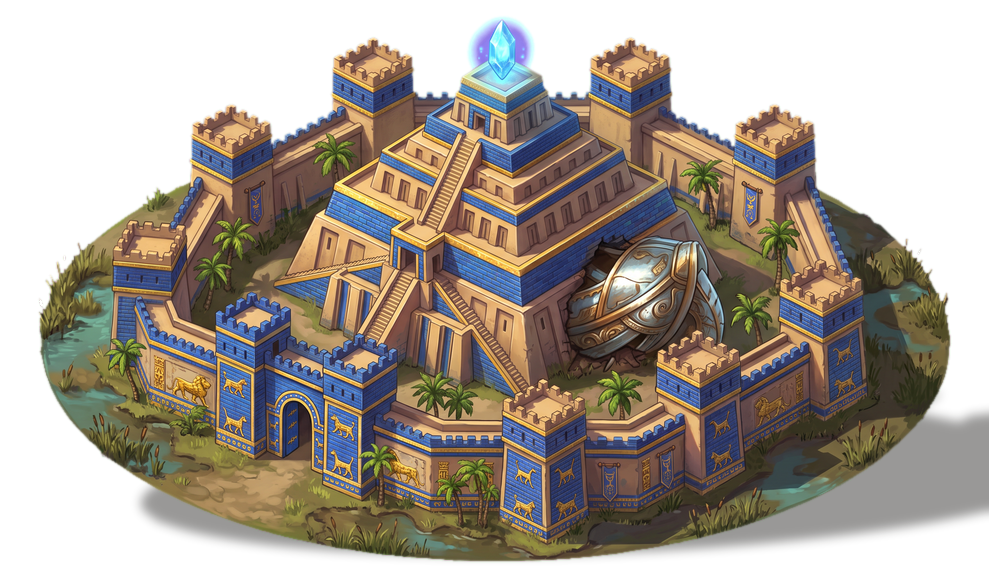
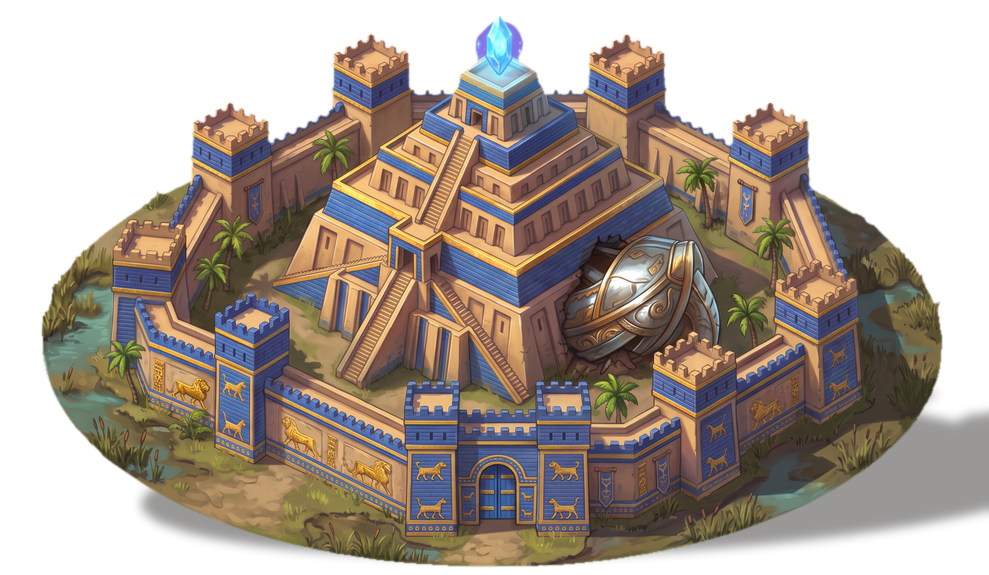
Eridu map towns: the gate at the front centre, where heroes stand
All three Eridu map towns had the gate painted about a tile left of the gate
tile, so a hero arriving stood beside it. Repainted as edits with the gate at
the front centre (same canvas, anchor and shadow). New screenshot option
--at_gate[=castle|village] puts the first hero in its home town's gate.

Claude-Session: https://claude.ai/code/session_01DA5tkKXTVvUdTY5CEiRZRW

diff --git a/HANDOFF.md b/HANDOFF.md
@@ -17,7 +17,7 @@ the look and feel of HoMM3, and each round fixes what the judge found.
 
 ## 2. Status
 
-- **Session69 back to town (2026-10-27), committed with this HANDOFF update:** the user: with a hero out on the map, a click on the own castle
+- **Session69 back to town (2026-10-27), `7d952ed`:** the user: with a hero out on the map, a click on the own castle
   opened the town screen instead of walking the hero home, and they didn't know how to get back. A click on any tile of
   an own town except its one gate tile opened the town at once. Now as the classic (VCMI's `onTileLeftClicked` too):
   with a hero selected on the map, a click anywhere on an own town shows the route to its gate and the second click
@@ -25,6 +25,12 @@ the look and feel of HoMM3, and each round fixes what the judge found.
   when the hero can't reach the gate or already stands in it. Code: `adventure._click` (`own_town`, the target
   snapped to `town["pos"]`). `tools/meet_test.gd` gains 4 checks (23 in all): first click routes and doesn't open,
   second click on another town tile walks the hero to the gate and visits.
+- **Session69 Eridu gate (2026-10-27), committed with this HANDOFF update:** the user: a hero walking into Nippur stands next to the gate,
+  which looks awkward. All three Eridu map towns (`map/town_eridu*.png`) had the gate painted about a tile left of
+  and half a tile above the gate tile (the other four factions have it at the front centre over the anchor). Repainted
+  as edits with the gate at the front centre, same canvas, anchor and shadow (ASSETS.md, Eridu). New shot option
+  `--at_gate[=castle|village]`; seen in `shots/session69/gate_eridu_levels.png` and `gate_eridu_zoom.png` (the
+  hero in the gateway at all three levels; before: `gate_compare.png`).
 - **Session68 Eridu (2026-10-26), committed with this HANDOFF update:** the user ("Lets do the Eridu now"); answers to the proposal's
   questions: Anzu at the top, Shaping, the House of the Me pays crystal and gold, the rest as proposed, and Eridu's
   heroes' spells get their own look. A fifth faction, id `eridu`, the user's own (no HoMM3 town), designed in
@@ -1251,7 +1257,7 @@ Screenshot harness flags (`scripts/core/shot.gd`, coordinates in 1920x1080 space
 `--shot --scene --delay --shots --interval --click=x,y;x,y (prefix r for right click) --keys=A;S --hover=x,y`;
 scenes also read `--setup=` (`demo`, `rich`, `new_game`, `all_spells`, `upgraded`, `siege`, `siege_haven` (`--siege=1|2|3`,
 default 3), `town_levels`,
-`necro_rich`, `necro_max`, `x`), `--seed --faction --reveal --cam=x,y --zoom --broken=a,b --battered=a,b --heroes=a,b` (battle heroes by id), `--players=a,b` (demo battle flag colours, -1
+`necro_rich`, `necro_max`, `x`), `--at_gate[=castle|village]` (map: the first hero in its home town's gate), `--seed --faction --reveal --cam=x,y --zoom --broken=a,b --battered=a,b --heroes=a,b` (battle heroes by id), `--players=a,b` (demo battle flag colours, -1
 neutral), `--terrain=snow` (demo battle ground), `--effects=bless;curse;bless+slow` (spells on the attacker's stacks). The harness parks the
 mouse before each capture (except hover and right-click shots). The window must not be headless for shots.
 

diff --git a/ASSETS.md b/ASSETS.md
@@ -235,7 +235,10 @@ Swordsman (Scorpion Man), Ghost (Sharur), Monk (Apkallu), Cavalier (Lamassu) and
 CREATURE_NOTES / POSE_NOTES). Hero portraits `legend_portraits.py`; the Lugal (`battle_eridu`, `map_eridu*`) and Keeper
 (`battle_keeper`, `map_keeper*`) over the Temple's horse in a lapis caparison. The town screen `town/eridu_*.png` and
 `layout_eridu.json` by `new_faction_town.py eridu` (the Temple's layout; the House of the Me and Dur-An-Ki at the
-Stables' and Chapter House's places), the map town by its `map` step, its levels by `town_levels_paint.py`. Cards
+Stables' and Chapter House's places), the map town by its `map` step, its levels by `town_levels_paint.py`; all
+three map towns had the gate painted left of the front, so in session69 each was repainted as an edit with the gate
+moved to the front centre over the gate tile (the `vertex-image` skill's script on `imagegen/batch42/in/eridu_*.png`,
+the picture on magenta; first takes kept; cut, shadowed and anchored as the `map` step's ingest). Cards
 `building_cards.py cards eridu`. The siege `battle/bg_siege_eridu_*.png`, `siege_eridu_*`, `siege_eridu_archer.png` by
 `siege_levels_paint.py restyle eridu` (the Temple's Castle restyled; Eridu's Citadel prompt `CITADEL_FOR`), then
 `paint`, `breach`, `damage`, `archer`, `ingest eridu`. Its heroes' spell effects `battle/fx_<arcane|spark|fire|frost|holy|
